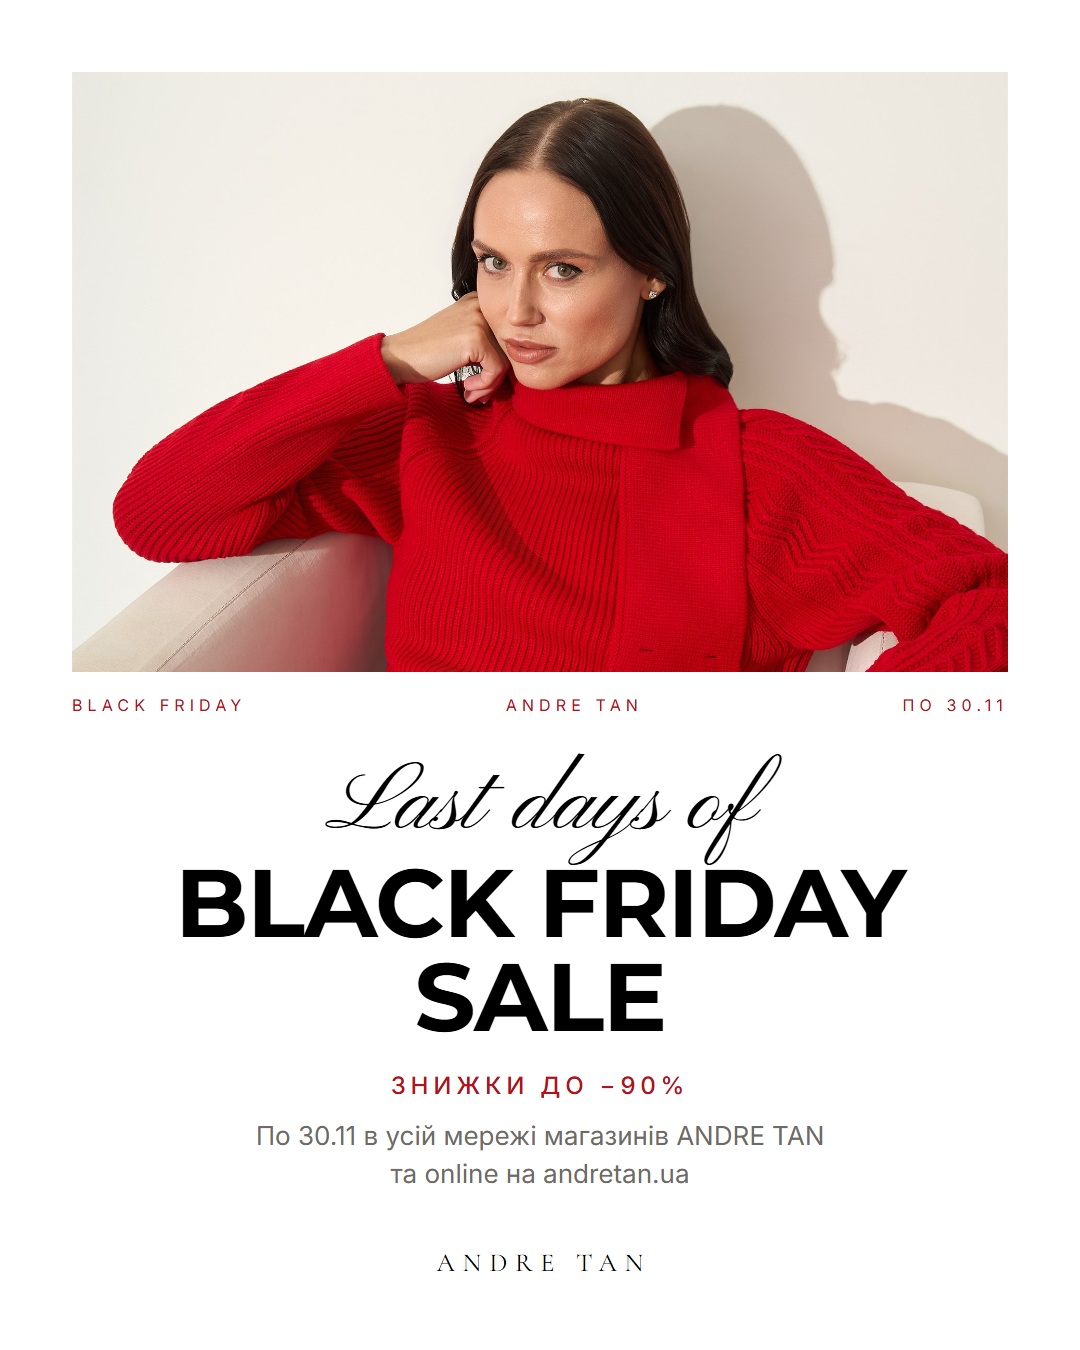
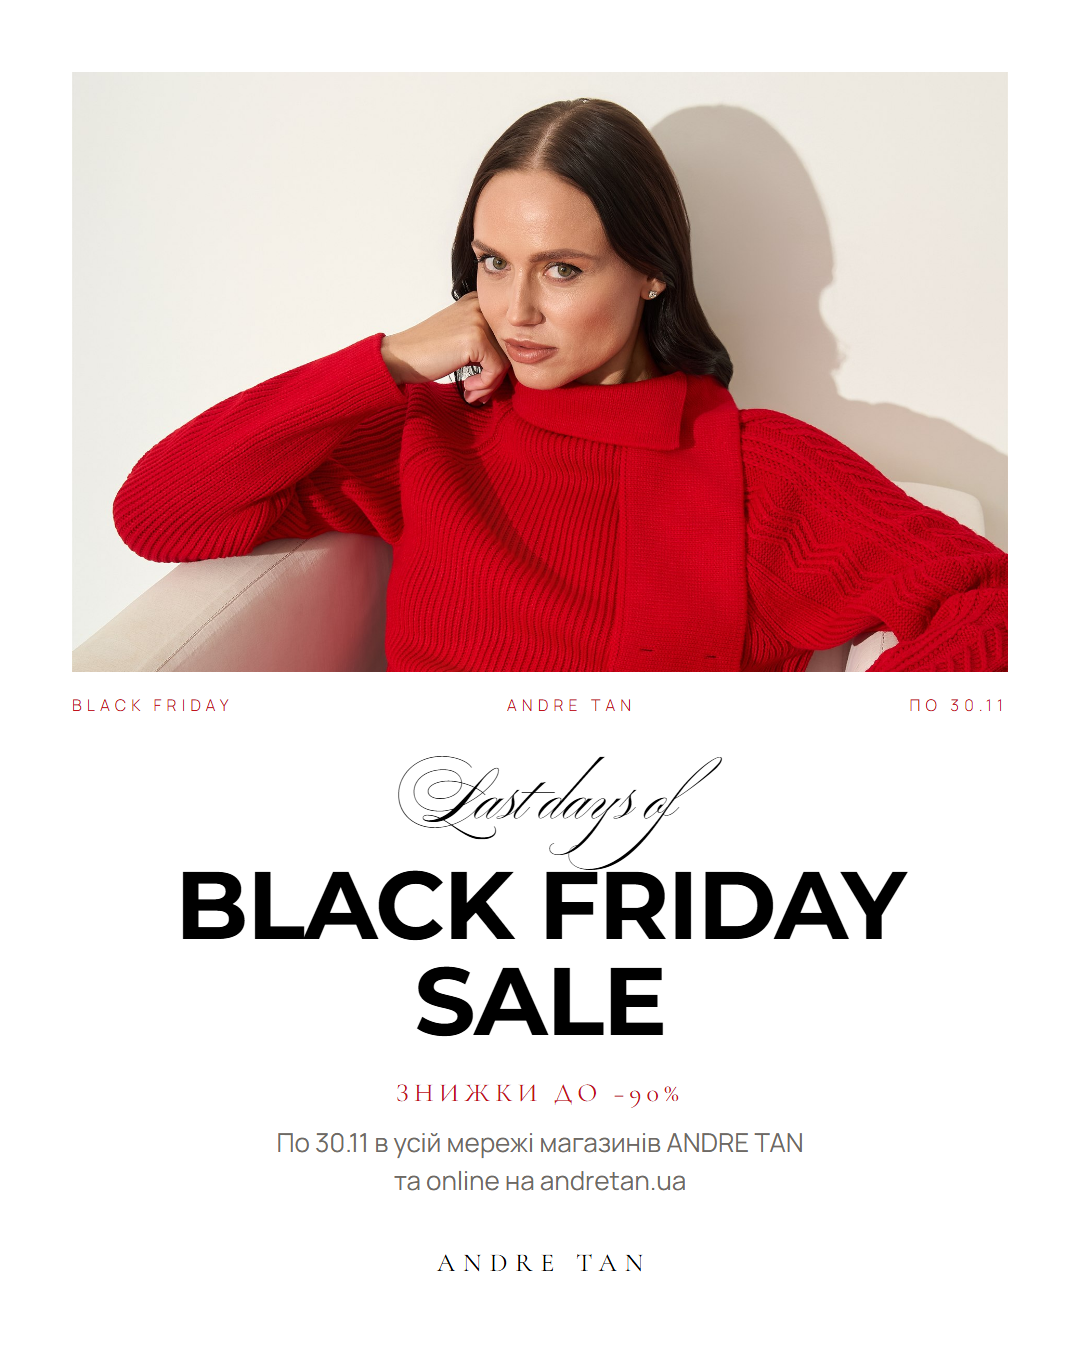
Published posts: 8 new stories/posts, updated Black Friday render
New: Black Friday Drop Announce; coat (New Arrival, Drop Title); dresses (Diptych);
vest and fuchsia corset (Product Card); brown corset (Drop Title); violet jacket (Editorial Split).
All pages load typo.js; reference st1/ (raw client photos) is gitignored.

diff --git a/design-system/posts/posts.js b/design-system/posts/posts.js
@@ -1,6 +1,54 @@
 // Маніфест готових постів. Новий пост: додайте HTML у posts/, рядок сюди
 // і запустіть posts/render.ps1. Нові пости додаються зверху.
 window.POSTS = [
+  { id: 'corset-shaped-brown', w: 1080, h: 1920,
+    title: 'Корсет з фігурним низом, коричневий',
+    template: 'Story / Drop Title',
+    campaign: 'New Arrival',
+    date: '2026-11-23',
+    caption: 'Корсет з фігурним низом, коричневий · 4 999 ₴' },
+  { id: 'corset-bandeau-fuchsia', w: 1080, h: 1920,
+    title: 'Корсет бандо з баскою, фуксія',
+    template: 'Story / Product Card',
+    campaign: 'New Arrival',
+    date: '2026-11-23',
+    caption: 'Корсет бандо на блискавці з баскою у клітинку, фуксія · 4 599 ₴' },
+  { id: 'jacket-check-violet', w: 1080, h: 1920,
+    title: 'Жакет двобортний у клітинку, фіолетовий',
+    template: 'Story / Editorial Split',
+    campaign: 'New Arrival',
+    date: '2026-11-23',
+    caption: 'Жакет двобортний приталений у клітинку з розкльошеними рукавами, фіолетовий · 7 999 ₴' },
+  { id: 'vest-corset-grey', w: 1080, h: 1920,
+    title: 'Жилет корсетний приталений, сірий',
+    template: 'Story / Product Card',
+    campaign: 'New Arrival',
+    date: '2026-11-22',
+    caption: 'Жилет корсетний приталений на гудзиках зі знімними бретелями, сірий · 4 599 ₴' },
+  { id: 'dress-wrap-diptych', w: 1080, h: 1920,
+    title: 'Сукня міді на запах — бордо і темно-синя',
+    template: 'Story / Diptych',
+    campaign: 'New Arrival',
+    date: '2026-11-22',
+    caption: 'Сукня міді на запах з розрізом та довгим рукавом · бордо і темно-синя · 4 999 ₴ · https://andretan.ua/products/plate-43065' },
+  { id: 'coat-wrap-beige-drop', w: 1080, h: 1920,
+    title: 'Пальто довге на запах — Drop Title',
+    template: 'Story / Drop Title',
+    campaign: 'New Arrival',
+    date: '2026-11-22',
+    caption: 'Пальто довге на запах з поясом та високим коміром, бежеве · 12 999 ₴' },
+  { id: 'bf-last-days-drop', w: 1080, h: 1350,
+    title: 'Last Days of Black Friday Sale — Drop Announce',
+    template: 'Post / Drop Announce',
+    campaign: 'Black Friday 2026',
+    date: '2026-11-22',
+    caption: 'LAST DAYS OF BLACK FRIDAY SALE\nЗнижки до −90%\nПо 30.11 в усій мережі магазинів ANDRE TAN та online на andretan.ua' },
+  { id: 'coat-wrap-beige', w: 1080, h: 1920,
+    title: 'Пальто довге на запах — New Arrival',
+    template: 'Story / New Arrival',
+    campaign: 'New Arrival',
+    date: '2026-11-22',
+    caption: 'Пальто довге на запах з поясом та високим коміром, бежеве\n12 999 ₴' },
   { id: 'bf-last-days', w: 1080, h: 1350,
     title: 'Last Days of Black Friday Sale',
     template: 'Post / Magazine',

diff --git a/design-system/posts/jacket-check-violet.html b/design-system/posts/jacket-check-violet.html
@@ -1,0 +1,33 @@
+<!doctype html>
+<html lang="uk">
+<head>
+<meta charset="utf-8">
+<title>Жакет двобортний у клітинку · Editorial Split — ANDRE TAN</title>
+<!-- Готова сторіс. Шаблон: Story / Editorial Split · 1080×1920.
+     Рендер у PNG: powershell -ExecutionPolicy Bypass -File posts/render.ps1 jacket-check-violet -->
+<link rel="preconnect" href="https://fonts.googleapis.com">
+<link rel="preconnect" href="https://fonts.gstatic.com" crossorigin>
+<link href="https://fonts.googleapis.com/css2?family=Cormorant+Garamond:ital,wght@0,400;1,400&family=Manrope:wght@300;400;500&family=Montserrat:wght@700&family=Ballet:opsz@16..72&family=Imperial+Script&display=swap" rel="stylesheet">
+<link rel="stylesheet" href="../tokens.css">
+<link rel="stylesheet" href="../theme.css">
+<link rel="stylesheet" href="../components.css">
+<link rel="stylesheet" href="post.css">
+</head>
+<body>
+
+<div class="canvas c-story bg-black" data-name="Story / Editorial Split · Жакет у клітинку">
+  <!-- фон, ліва половина: фото 2 (крупний план) -->
+  <div class="photo has-image" style="position:absolute;left:0;top:0;width:540px;height:1920px;background-image:url('assets/jacket-check-violet-close.jpg');background-position:50% center"></div>
+  <!-- фон, права половина: панель (колір ink/900 з редактора) -->
+  <div style="position:absolute;left:540px;top:0;width:540px;height:1920px;background:var(--at-ink-900)"></div>
+  <!-- передній план: фото 1 (повний образ) -->
+  <div class="photo has-image" style="position:absolute;left:270px;top:520px;width:580px;height:840px;background-image:url('assets/jacket-check-violet-full.jpg');background-position:center 20%"></div>
+
+  <!-- тексти оформлені як у сторіс Diptych: назва товару (Caps M / S) і ціна (Ціна), світлі на темній панелі -->
+  <div class="price price--light" style="position:absolute;left:600px;right:var(--at-margin-story);bottom:calc(1920px - 520px + 32px)"><span class="price__name" style="line-height:1.45">Жакет двобортний приталений у клітинку з розкльошеними рукавами фіолетовий</span></div>
+  <div class="price price--light" style="position:absolute;left:600px;right:var(--at-margin-story);top:1392px"><div class="price__row"><span class="price__value">7 999 ₴</span></div></div>
+</div>
+
+<script src="../typo.js"></script>
+</body>
+</html>

diff --git a/design-system/posts/dress-wrap-diptych.html b/design-system/posts/dress-wrap-diptych.html
@@ -1,0 +1,35 @@
+<!doctype html>
+<html lang="uk">
+<head>
+<meta charset="utf-8">
+<title>Сукня міді на запах · Diptych — ANDRE TAN</title>
+<!-- Готова сторіс. Шаблон: Story / Diptych · 1080×1920.
+     Рендер у PNG: powershell -ExecutionPolicy Bypass -File posts/render.ps1 dress-wrap-diptych -->
+<link rel="preconnect" href="https://fonts.googleapis.com">
+<link rel="preconnect" href="https://fonts.gstatic.com" crossorigin>
+<link href="https://fonts.googleapis.com/css2?family=Cormorant+Garamond:ital,wght@0,400;1,400&family=Manrope:wght@300;400;500&family=Montserrat:wght@700&family=Ballet:opsz@16..72&family=Imperial+Script&display=swap" rel="stylesheet">
+<link rel="stylesheet" href="../tokens.css">
+<link rel="stylesheet" href="../theme.css">
+<link rel="stylesheet" href="../components.css">
+<link rel="stylesheet" href="post.css">
+</head>
+<body>
+
+<div class="canvas c-story bg-white" data-name="Story / Diptych · Сукня міді на запах">
+  <div class="layer pad-story">
+    <div class="row" style="gap:20px;margin-top:20px;align-items:flex-start;width:100%">
+      <div class="stack gap-32" style="flex:1;min-width:0">
+        <div class="photo has-image" style="width:100%;height:1040px;background-image:url('assets/dress-wrap-bordo.jpg');background-position:center 30%"></div>
+        <div class="price"><span class="price__name" style="line-height:1.45">Сукня міді на запах з розрізом та довгим рукавом бордо</span><div class="price__row"><span class="price__value">4 999 ₴</span></div></div>
+      </div>
+      <div class="stack gap-32" style="flex:1;min-width:0">
+        <div class="photo has-image" style="width:100%;height:1040px;background-image:url('assets/dress-wrap-navy.jpg');background-position:center 30%"></div>
+        <div class="price"><span class="price__name" style="line-height:1.45">Сукня міді на запах з розрізом та довгим рукавом темно-синя</span><div class="price__row"><span class="price__value">4 999 ₴</span></div></div>
+      </div>
+    </div>
+  </div>
+</div>
+
+<script src="../typo.js"></script>
+</body>
+</html>

diff --git a/design-system/posts/coat-wrap-beige-drop.html b/design-system/posts/coat-wrap-beige-drop.html
@@ -1,0 +1,32 @@
+<!doctype html>
+<html lang="uk">
+<head>
+<meta charset="utf-8">
+<title>Пальто довге на запах · Drop Title — ANDRE TAN</title>
+<!-- Готова сторіс. Шаблон: Story / Drop Title · 1080×1920.
+     Рендер у PNG: powershell -ExecutionPolicy Bypass -File posts/render.ps1 coat-wrap-beige-drop -->
+<link rel="preconnect" href="https://fonts.googleapis.com">
+<link rel="preconnect" href="https://fonts.gstatic.com" crossorigin>
+<link href="https://fonts.googleapis.com/css2?family=Cormorant+Garamond:ital,wght@0,400;1,400&family=Manrope:wght@300;400;500&family=Montserrat:wght@700&family=Ballet:opsz@16..72&family=Imperial+Script&display=swap" rel="stylesheet">
+<link rel="stylesheet" href="../tokens.css">
+<link rel="stylesheet" href="../theme.css">
+<link rel="stylesheet" href="../components.css">
+<link rel="stylesheet" href="post.css">
+</head>
+<body>
+
+<div class="canvas c-story bg-white" data-name="Story / Drop Title · Пальто на запах">
+  <!-- фото зсунуте так, щоб модель стояла лівіше, а правий верх лишився під текст -->
+  <div class="photo fill has-image" style="background-image:url('assets/coat-wrap-beige.jpg');background-size:cover;background-position:100% center"></div>
+  <div class="layer pad-story">
+    <div class="stack gap-24 end" style="margin-top:20px;margin-left:auto;max-width:420px">
+      <div class="t-caps-l" style="font-size:calc(var(--at-post-size-caps-l) * 1.5);line-height:1.3;letter-spacing:.3em;margin-right:-.3em">Пальто довге на&nbsp;запах</div>
+      <div class="t-caps-m" style="line-height:1.5;letter-spacing:.24em;margin-right:-.24em">з поясом та високим коміром · бежеве</div>
+      <div class="t-price">12 999 ₴</div>
+    </div>
+  </div>
+</div>
+
+<script src="../typo.js"></script>
+</body>
+</html>

diff --git a/design-system/posts/bf-last-days-drop.html b/design-system/posts/bf-last-days-drop.html
@@ -1,0 +1,34 @@
+<!doctype html>
+<html lang="uk">
+<head>
+<meta charset="utf-8">
+<title>Last Days of Black Friday Sale · Drop Announce — ANDRE TAN</title>
+<!-- Готовий пост. Шаблон: Post / Drop Announce · 1080×1350.
+     Рендер у PNG: powershell -ExecutionPolicy Bypass -File posts/render.ps1 bf-last-days-drop -->
+<link rel="preconnect" href="https://fonts.googleapis.com">
+<link rel="preconnect" href="https://fonts.gstatic.com" crossorigin>
+<link href="https://fonts.googleapis.com/css2?family=Cormorant+Garamond:ital,wght@0,400;1,400&family=Manrope:wght@300;400;500&family=Montserrat:wght@700&family=Ballet:opsz@16..72&family=Imperial+Script&display=swap" rel="stylesheet">
+<link rel="stylesheet" href="../tokens.css">
+<link rel="stylesheet" href="../theme.css">
+<link rel="stylesheet" href="../components.css">
+<link rel="stylesheet" href="post.css">
+</head>
+<body>
+
+<div class="canvas c-post bg-white" data-name="Post / Drop Announce · Black Friday">
+  <div class="layer pad-feed center stack gap-24">
+    <div class="photo has-image" style="width:936px;height:620px;background-image:url('assets/bf-red-knit.jpg');background-position:center 14%"></div>
+    <div class="meta-row meta-row--accent" style="width:100%"><span>Black Friday</span><span>Last days</span><span>по 30.11</span></div>
+    <div class="grow stack gap-16" style="justify-content:center;align-items:center">
+      <div class="t-h2-italic">Last days of</div>
+      <div class="t-display-l c-accent">Black Friday<br>Sale</div>
+      <div class="t-caps-l" style="margin-top:8px">Знижки до −90%</div>
+      <div class="t-body-m c-secondary" style="max-width:820px">По 30.11 в усій мережі магазинів ANDRE&nbsp;TAN<br>та online на&nbsp;andretan.ua</div>
+    </div>
+    <div class="logo logo--sm">ANDRE TAN</div>
+  </div>
+</div>
+
+<script src="../typo.js"></script>
+</body>
+</html>

diff --git a/design-system/posts/corset-shaped-brown.html b/design-system/posts/corset-shaped-brown.html
@@ -1,0 +1,32 @@
+<!doctype html>
+<html lang="uk">
+<head>
+<meta charset="utf-8">
+<title>Корсет з фігурним низом · Drop Title — ANDRE TAN</title>
+<!-- Готова сторіс. Шаблон: Story / Drop Title · 1080×1920.
+     Рендер у PNG: powershell -ExecutionPolicy Bypass -File posts/render.ps1 corset-shaped-brown -->
+<link rel="preconnect" href="https://fonts.googleapis.com">
+<link rel="preconnect" href="https://fonts.gstatic.com" crossorigin>
+<link href="https://fonts.googleapis.com/css2?family=Cormorant+Garamond:ital,wght@0,400;1,400&family=Manrope:wght@300;400;500&family=Montserrat:wght@700&family=Ballet:opsz@16..72&family=Imperial+Script&display=swap" rel="stylesheet">
+<link rel="stylesheet" href="../tokens.css">
+<link rel="stylesheet" href="../theme.css">
+<link rel="stylesheet" href="../components.css">
+<link rel="stylesheet" href="post.css">
+</head>
+<body>
+
+<div class="canvas c-story bg-white" data-name="Story / Drop Title · Корсет коричневий">
+  <!-- фото зсунуте так, щоб модель стояла лівіше, а правий верх лишився під текст -->
+  <div class="photo fill has-image" style="background-image:url('assets/corset-shaped-brown.jpg');background-size:cover;background-position:100% center"></div>
+  <div class="layer pad-story">
+    <div class="stack gap-24 end" style="margin-top:20px;margin-left:auto;max-width:420px">
+      <div class="t-caps-l" style="font-size:calc(var(--at-post-size-caps-l) * 1.5);line-height:1.3;letter-spacing:.3em;margin-right:-.3em">Корсет з фігурним низом</div>
+      <div class="t-caps-m" style="line-height:1.5;letter-spacing:.24em;margin-right:-.24em">коричневий</div>
+      <div class="t-price">4 999 ₴</div>
+    </div>
+  </div>
+</div>
+
+<script src="../typo.js"></script>
+</body>
+</html>

diff --git a/design-system/posts/coat-wrap-beige.html b/design-system/posts/coat-wrap-beige.html
@@ -1,0 +1,31 @@
+<!doctype html>
+<html lang="uk">
+<head>
+<meta charset="utf-8">
+<title>Пальто довге на запах · New Arrival — ANDRE TAN</title>
+<!-- Готова сторіс. Шаблон: Story / New Arrival · 1080×1920.
+     Рендер у PNG: powershell -ExecutionPolicy Bypass -File posts/render.ps1 coat-wrap-beige -->
+<link rel="preconnect" href="https://fonts.googleapis.com">
+<link rel="preconnect" href="https://fonts.gstatic.com" crossorigin>
+<link href="https://fonts.googleapis.com/css2?family=Cormorant+Garamond:ital,wght@0,400;1,400&family=Manrope:wght@300;400;500&family=Montserrat:wght@700&family=Ballet:opsz@16..72&family=Imperial+Script&display=swap" rel="stylesheet">
+<link rel="stylesheet" href="../tokens.css">
+<link rel="stylesheet" href="../theme.css">
+<link rel="stylesheet" href="../components.css">
+<link rel="stylesheet" href="post.css">
+</head>
+<body>
+
+<div class="canvas c-story bg-black" data-name="Story / New Arrival · Пальто на запах">
+  <div class="photo fill has-image" style="background-image:url('assets/coat-wrap-beige.jpg');background-size:cover;background-position:center 30%"></div>
+  <!-- світле фото → темніший скрим, ніж у шаблоні, щоб білий текст читався -->
+  <div class="scrim" style="height:1200px;background:linear-gradient(to top, rgba(20,16,12,.82) 0%, rgba(20,16,12,.72) 55%, rgba(20,16,12,0) 100%)"></div>
+  <div class="layer pad-story c-inverse">
+    <div class="t-h1 mt-auto">Пальто довге<br>на запах</div>
+    <div class="t-body-l" style="margin-top:16px">з поясом та високим коміром · бежеве</div>
+    <div class="t-price" style="margin-top:24px">12 999 ₴</div>
+  </div>
+</div>
+
+<script src="../typo.js"></script>
+</body>
+</html>

diff --git a/design-system/posts/vest-corset-grey.html b/design-system/posts/vest-corset-grey.html
@@ -1,0 +1,29 @@
+<!doctype html>
+<html lang="uk">
+<head>
+<meta charset="utf-8">
+<title>Жилет корсетний сірий · Product Card — ANDRE TAN</title>
+<!-- Готова сторіс. Шаблон: Story / Product Card · 1080×1920 (без плашки Sale і старої ціни).
+     Рендер у PNG: powershell -ExecutionPolicy Bypass -File posts/render.ps1 vest-corset-grey -->
+<link rel="preconnect" href="https://fonts.googleapis.com">
+<link rel="preconnect" href="https://fonts.gstatic.com" crossorigin>
+<link href="https://fonts.googleapis.com/css2?family=Cormorant+Garamond:ital,wght@0,400;1,400&family=Manrope:wght@300;400;500&family=Montserrat:wght@700&family=Ballet:opsz@16..72&family=Imperial+Script&display=swap" rel="stylesheet">
+<link rel="stylesheet" href="../tokens.css">
+<link rel="stylesheet" href="../theme.css">
+<link rel="stylesheet" href="../components.css">
+<link rel="stylesheet" href="post.css">
+</head>
+<body>
+
+<div class="canvas c-story bg-white" data-name="Story / Product Card · Жилет корсетний">
+  <div class="photo has-image" style="position:absolute;left:0;top:0;width:1080px;height:1300px;background-image:url('assets/vest-corset-grey.jpg');background-position:center 8%"></div>
+  <!-- усі тексти — класи DS, шрифт і розмір змінюються в редакторі (Caps M / S, Ціна) -->
+  <div class="layer center stack gap-24" style="top:1300px;padding:56px var(--at-margin-story) var(--at-safe-story-bottom)">
+    <div class="t-caps-m" style="max-width:860px;line-height:1.5">Жилет корсетний приталений на гудзиках зі знімними бретелями сірий</div>
+    <div class="t-price">4 599 ₴</div>
+  </div>
+</div>
+
+<script src="../typo.js"></script>
+</body>
+</html>

diff --git a/design-system/posts/corset-bandeau-fuchsia.html b/design-system/posts/corset-bandeau-fuchsia.html
@@ -1,0 +1,29 @@
+<!doctype html>
+<html lang="uk">
+<head>
+<meta charset="utf-8">
+<title>Корсет бандо фуксія · Product Card — ANDRE TAN</title>
+<!-- Готова сторіс. Шаблон: Story / Product Card · 1080×1920 (без плашки Sale і старої ціни).
+     Рендер у PNG: powershell -ExecutionPolicy Bypass -File posts/render.ps1 corset-bandeau-fuchsia -->
+<link rel="preconnect" href="https://fonts.googleapis.com">
+<link rel="preconnect" href="https://fonts.gstatic.com" crossorigin>
+<link href="https://fonts.googleapis.com/css2?family=Cormorant+Garamond:ital,wght@0,400;1,400&family=Manrope:wght@300;400;500&family=Montserrat:wght@700&family=Ballet:opsz@16..72&family=Imperial+Script&display=swap" rel="stylesheet">
+<link rel="stylesheet" href="../tokens.css">
+<link rel="stylesheet" href="../theme.css">
+<link rel="stylesheet" href="../components.css">
+<link rel="stylesheet" href="post.css">
+</head>
+<body>
+
+<div class="canvas c-story bg-white" data-name="Story / Product Card · Корсет бандо">
+  <div class="photo has-image" style="position:absolute;left:0;top:0;width:1080px;height:1300px;background-image:url('assets/corset-bandeau-fuchsia.jpg');background-position:center 8%"></div>
+  <!-- усі тексти — класи DS, шрифт і розмір змінюються в редакторі (Caps M / S, Ціна) -->
+  <div class="layer center stack gap-24" style="top:1300px;padding:56px var(--at-margin-story) var(--at-safe-story-bottom)">
+    <div class="t-caps-m" style="max-width:860px;line-height:1.5">Корсет бандо на блискавці з баскою у клітинку фуксія</div>
+    <div class="t-price">4 599 ₴</div>
+  </div>
+</div>
+
+<script src="../typo.js"></script>
+</body>
+</html>

diff --git a/design-system/posts/bf-last-days.html b/design-system/posts/bf-last-days.html
@@ -7,7 +7,7 @@
      Рендер у PNG: powershell -ExecutionPolicy Bypass -File posts/render.ps1 -->
 <link rel="preconnect" href="https://fonts.googleapis.com">
 <link rel="preconnect" href="https://fonts.gstatic.com" crossorigin>
-<link href="https://fonts.googleapis.com/css2?family=Cormorant+Garamond:ital,wght@0,400;1,400&family=Manrope:wght@300;400&family=Montserrat:wght@700&family=Inter:wght@400;500&family=Ballet:opsz@16..72&family=Great+Vibes&display=swap" rel="stylesheet">
+<link href="https://fonts.googleapis.com/css2?family=Cormorant+Garamond:ital,wght@0,400;1,400&family=Manrope:wght@300;400;500&family=Montserrat:wght@700&family=Ballet:opsz@16..72&family=Imperial+Script&display=swap" rel="stylesheet">
 <link rel="stylesheet" href="../tokens.css">
 <link rel="stylesheet" href="../theme.css">
 <link rel="stylesheet" href="../components.css">
@@ -27,5 +27,6 @@
   </div>
 </div>
 
+<script src="../typo.js"></script>
 </body>
 </html>
